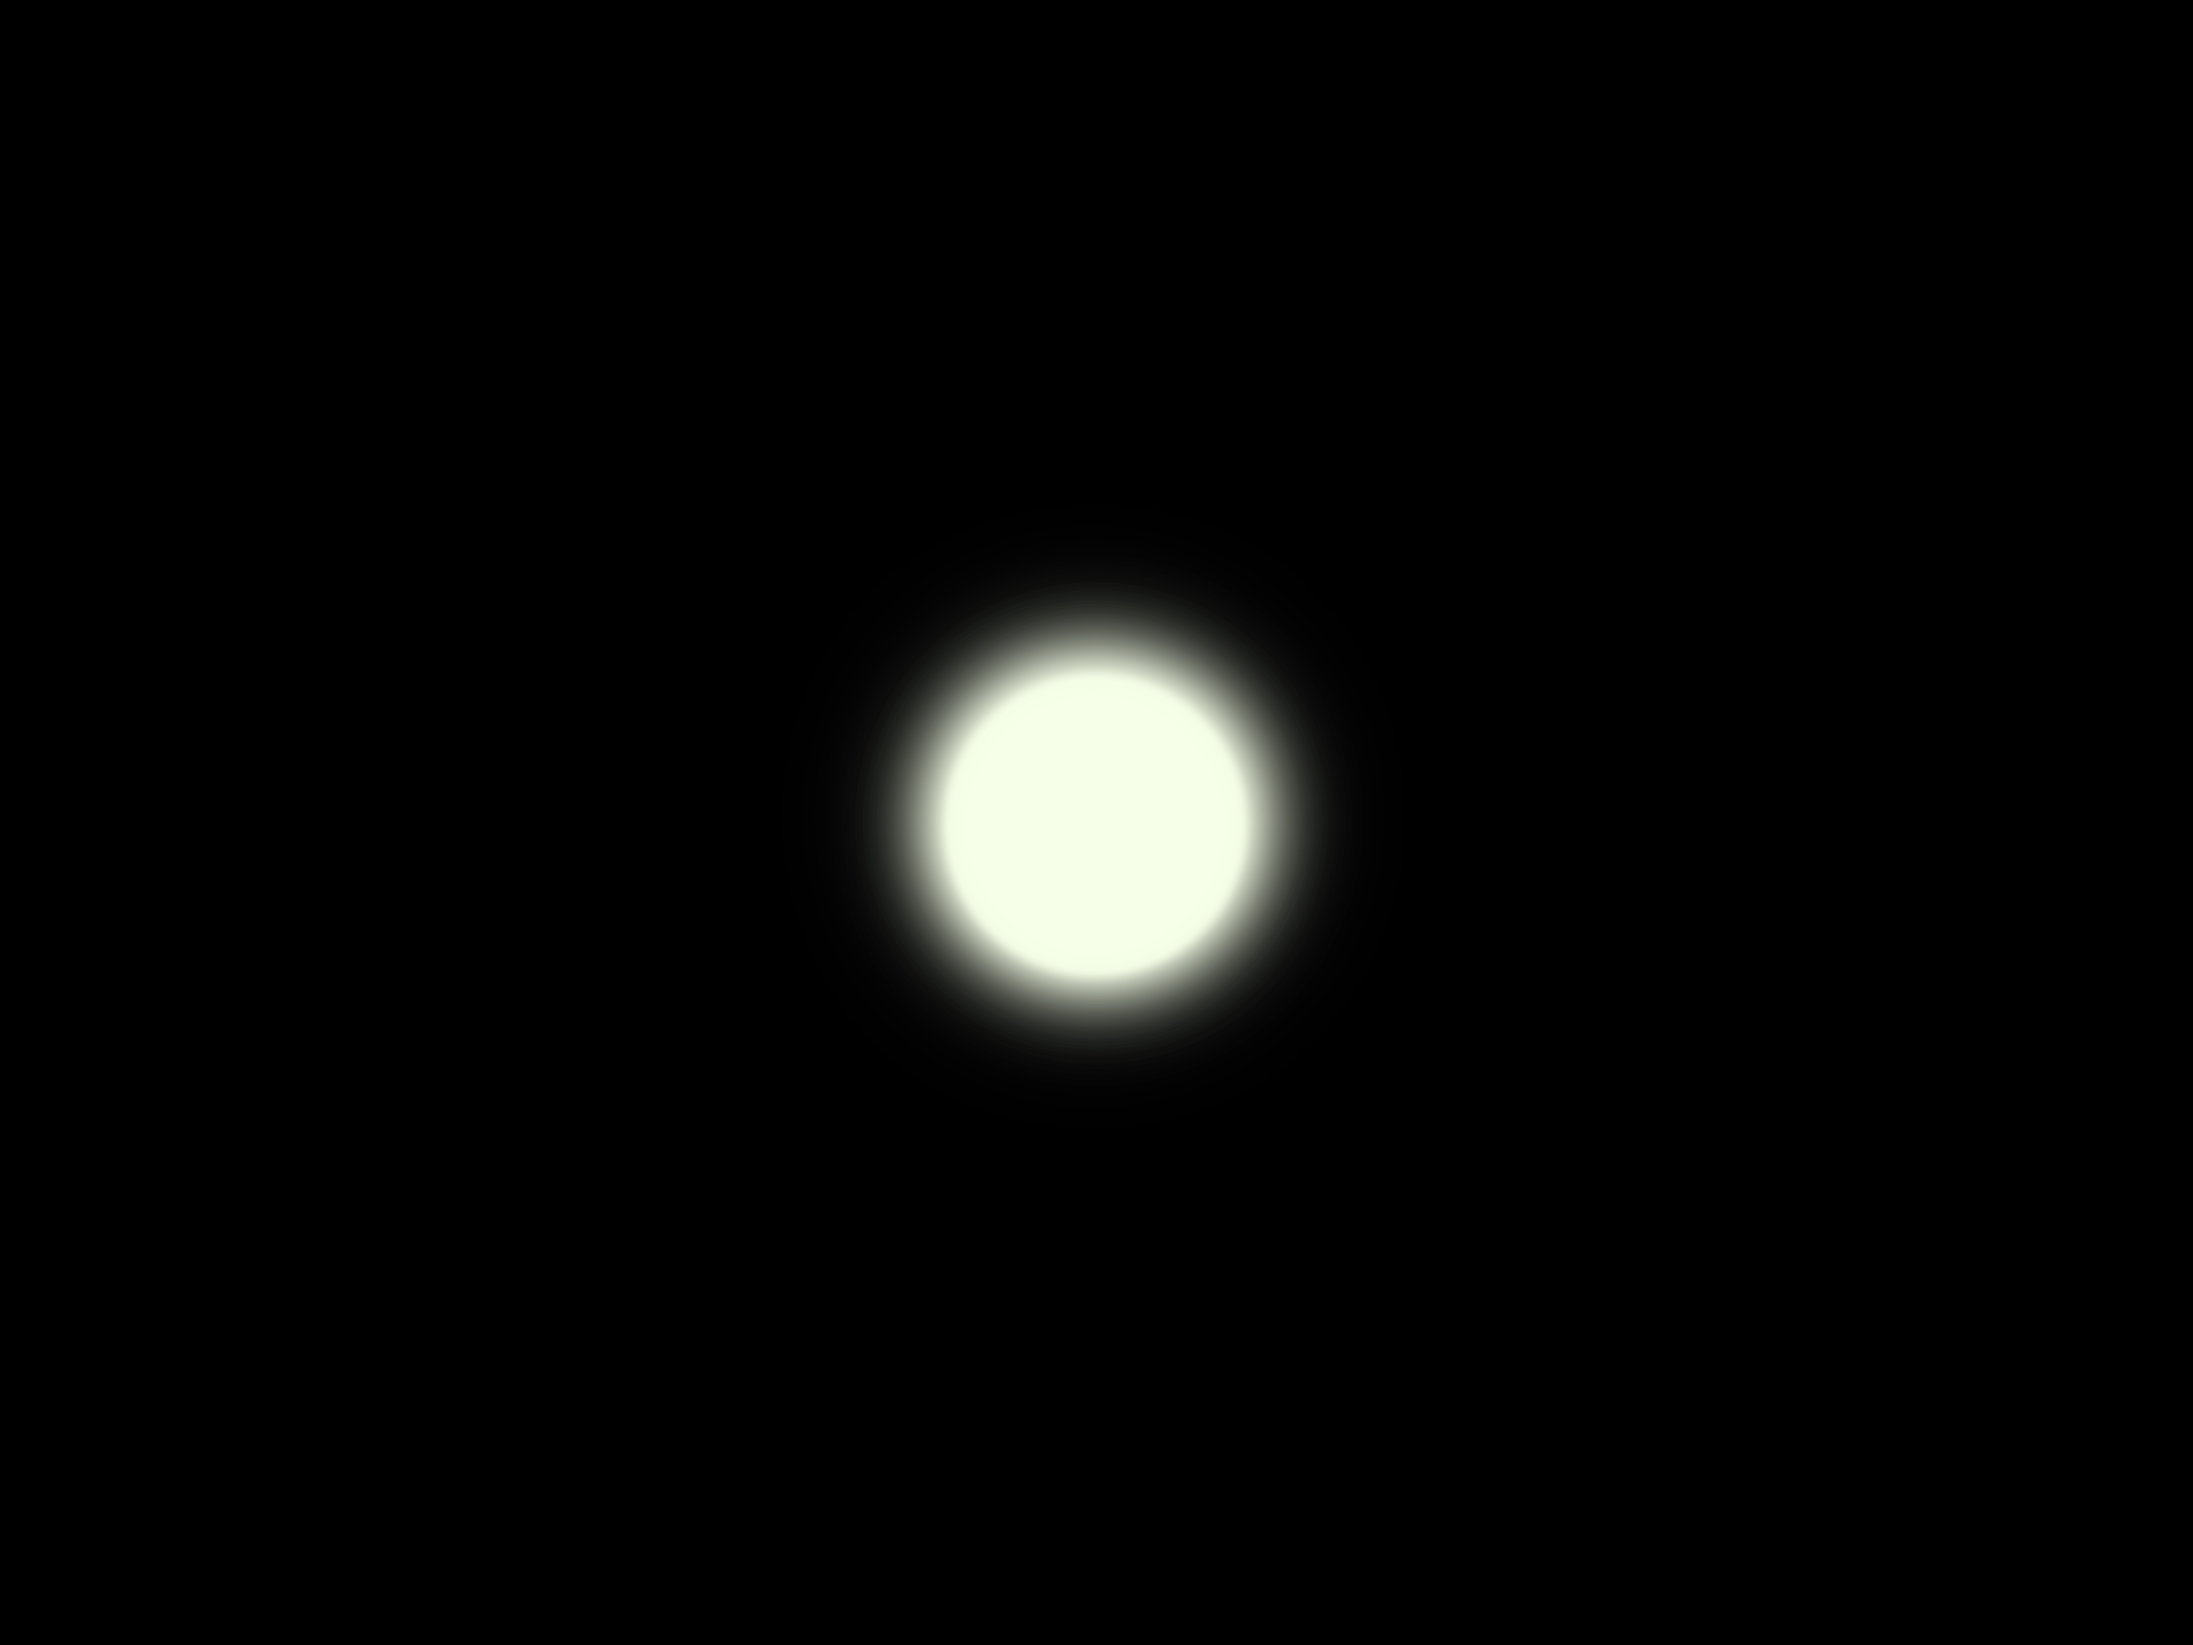
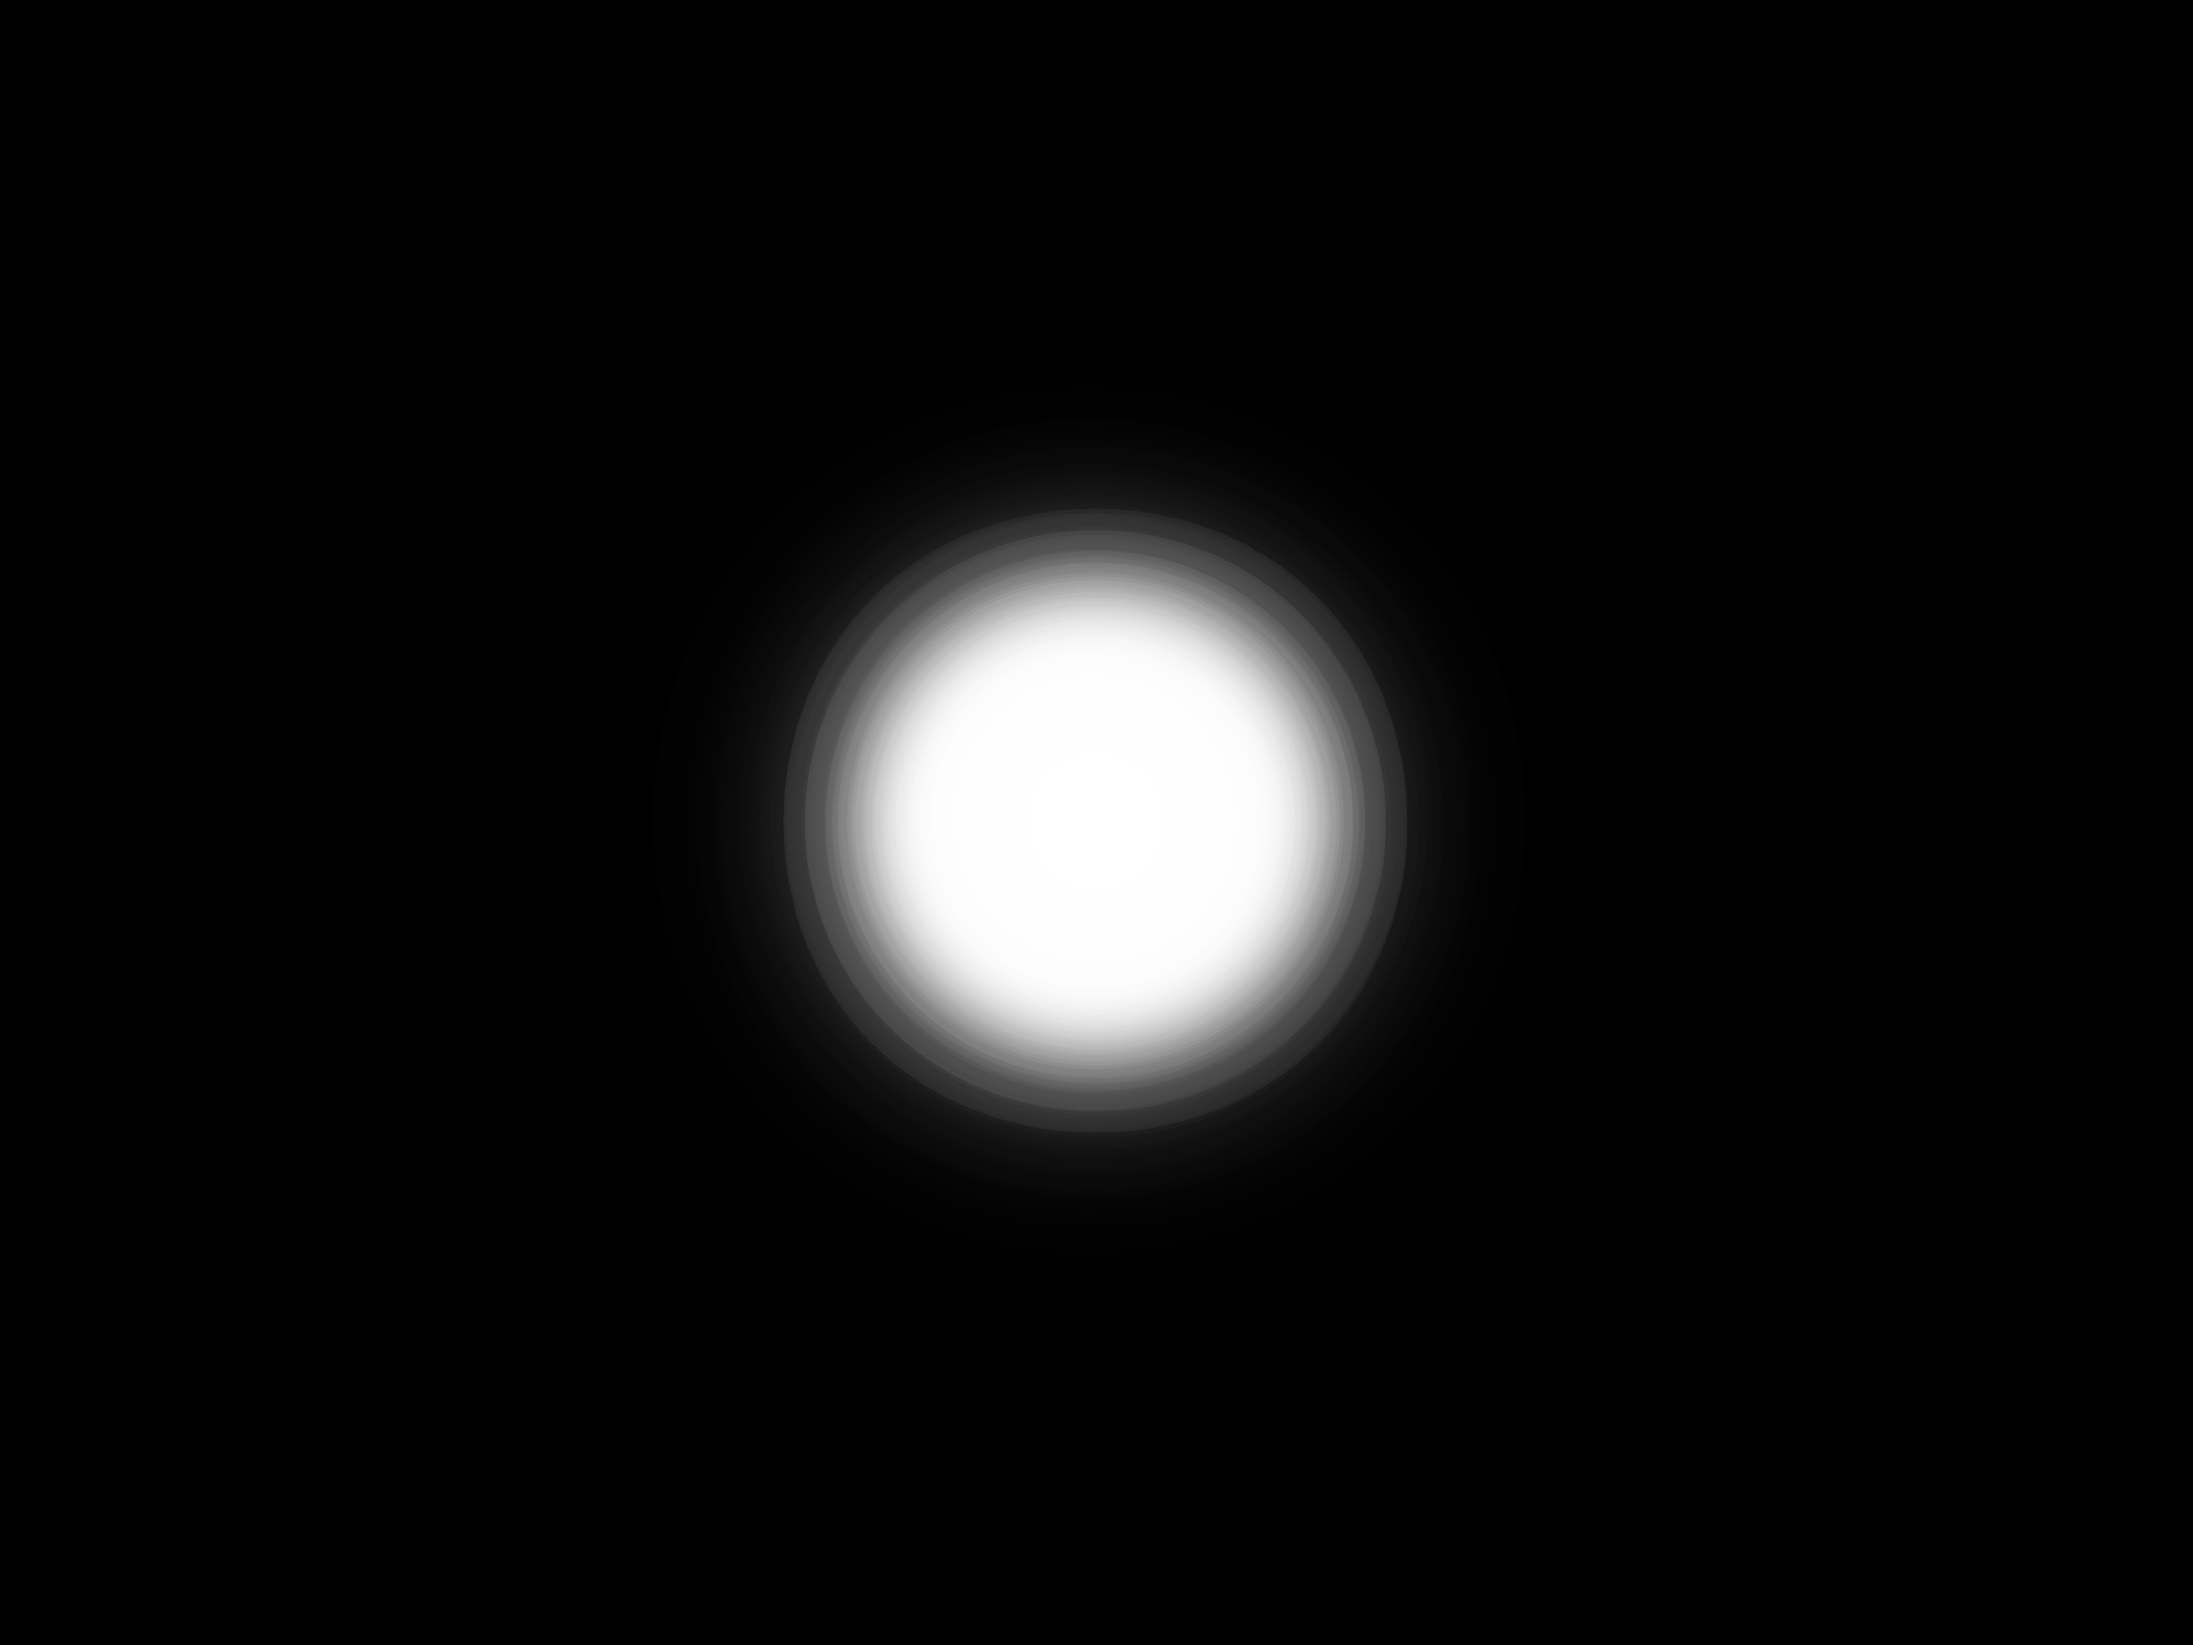
Fog is rolling in
You feel something wrapping around your leg and the ground is squishy, roll a dexterity saving throw or become grappled.

Changed region(s): [[0.3438, 0.2812, 0.6562, 0.7188]]

diff --git a/FortressSurvivor/Scenes/AsserTestScene.cs b/FortressSurvivor/Scenes/AsserTestScene.cs
@@ -17,28 +17,33 @@ namespace FortressSurvivor
         private Astar astar;
         public override void Initialize()
         {
-            Director playerDirector = new Director(new PlayerBuilder());
-            GameObject playerGo = playerDirector.Contruct();
+            GameObject playerGo = SpawnPlayer();
             Instantiate(playerGo);
 
 
             gridGameobject = new GameObject();
             grid = gridGameobject.AddComponent<Grid>();
-            grid.GenerateGrid(Vector2.Zero, 5, 5);
+            grid.GenerateGrid(Vector2.Zero, 20, 20);
 
             astarGameobject = new GameObject();
             astar = new Astar(astarGameobject, grid);
 
+            GameObject enemyGo = new GameObject();
+            enemyGo.AddComponent<SpriteRenderer>().SetLayerDepth(LAYERDEPTH.Enemies);
+            enemyGo.AddComponent<Enemy>(grid, new Point(1, 1));
+            enemyGo.AddComponent<Collider>();
+            enemyGo.AddComponent<HealthDamage>();
+
+            Instantiate(enemyGo);
 
             GameObject currencyCounter = new GameObject();
             currencyCounter.Type = GameObjectTypes.Gui;
             currencyCounter.AddComponent<SpriteRenderer>();
             currencyCounter.AddComponent<Currency>();
             Instantiate(currencyCounter);
-            GameObject fog = new GameObject();
 
 
-            Player player = playerGo.GetComponent<Player>() as Player;
+            Player player = playerGo.GetComponent<Player>();
             InputHandler.Instance.AddUpdateCommand(Keys.D, new MoveCommand(player, new Vector2(1, 0)));
             InputHandler.Instance.AddUpdateCommand(Keys.A, new MoveCommand(player, new Vector2(-1, 0)));
             InputHandler.Instance.AddUpdateCommand(Keys.W, new MoveCommand(player, new Vector2(0, -1)));
@@ -49,6 +54,21 @@ namespace FortressSurvivor
             InputHandler.Instance.AddUpdateCommand(Keys.Q, new AstarTestCommand(astar, grid));
             InputHandler.Instance.AddButtonDownCommand(Keys.Space, new ShootCommand(player));
 
+        }
+
+        private GameObject SpawnPlayer()
+        {
+            GameObject fogOfWar = new GameObject();
+
+            fogOfWar.AddComponent<SpriteRenderer>();
+            fogOfWar.AddComponent<FogOfWar>();
+            Instantiate(fogOfWar);
+            GameObject playerGo = new GameObject();
+            playerGo.AddComponent<Player>(fogOfWar);
+            playerGo.AddComponent<SpriteRenderer>();
+            playerGo.AddComponent<Collider>();
+            playerGo.AddComponent<HealthDamage>();
+            return playerGo;
         }
 
         public override void Update(GameTime gameTime)

diff --git a/FortressSurvivor/ComponentPattern/Characters/Player.cs b/FortressSurvivor/ComponentPattern/Characters/Player.cs
@@ -13,12 +13,16 @@ namespace FortressSurvivor
         private Projectile projectile;
         private float speed;
         Animator animator;
+        private GameObject fogOfWar;
+        private SpriteRenderer fogOfWarSr;
         public Player(GameObject gameObject) : base(gameObject)
         {
         }
 
         public Player(GameObject gameObject, GameObject followObject) : base(gameObject)
         {
+            fogOfWar = followObject;
+            fogOfWarSr = fogOfWar.GetComponent<SpriteRenderer>();
         }
 
         public void Move(Vector2 velocity)
@@ -31,7 +35,9 @@ namespace FortressSurvivor
             velocity *= speed;
             GameObject.Transform.Translate(velocity * GameWorld.DeltaTime);
             GameWorld.Instance.worldCam.Move(velocity * GameWorld.DeltaTime);
-            
+
+         
+
         }
 
         public override void Awake()
@@ -67,6 +73,9 @@ namespace FortressSurvivor
 
         public override void Update(GameTime gameTime)
         {
+            fogOfWar.Transform.Position = GameObject.Transform.Position + new Vector2(-fogOfWarSr.Sprite.Width / 2, -fogOfWarSr.Sprite.Height / 2);
+
+
             lastShot += GameWorld.DeltaTime;
 
             if (lastShot > shootTimer)

diff --git a/FortressSurvivor/ComponentPattern/Other/FogOfWar.cs b/FortressSurvivor/ComponentPattern/Other/FogOfWar.cs
@@ -19,6 +19,7 @@ namespace FortressSurvivor
         {
             SpriteRenderer sr = GameObject.GetComponent<SpriteRenderer>();
             sr.SetSprite("FogofWar");
+            sr.SetLayerDepth(LAYERDEPTH.Button);
             
         }
     }
